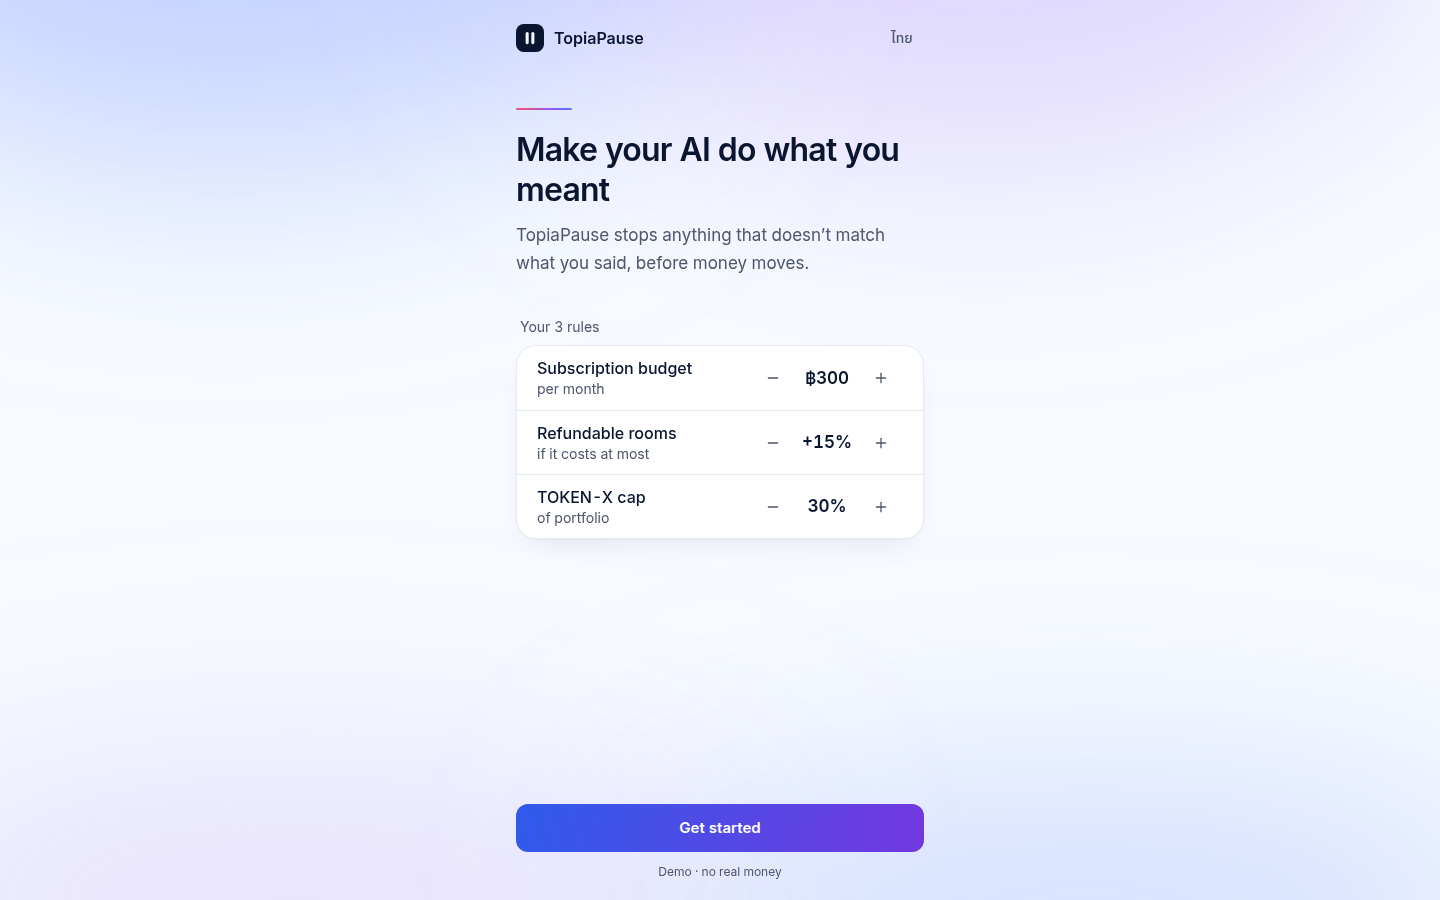
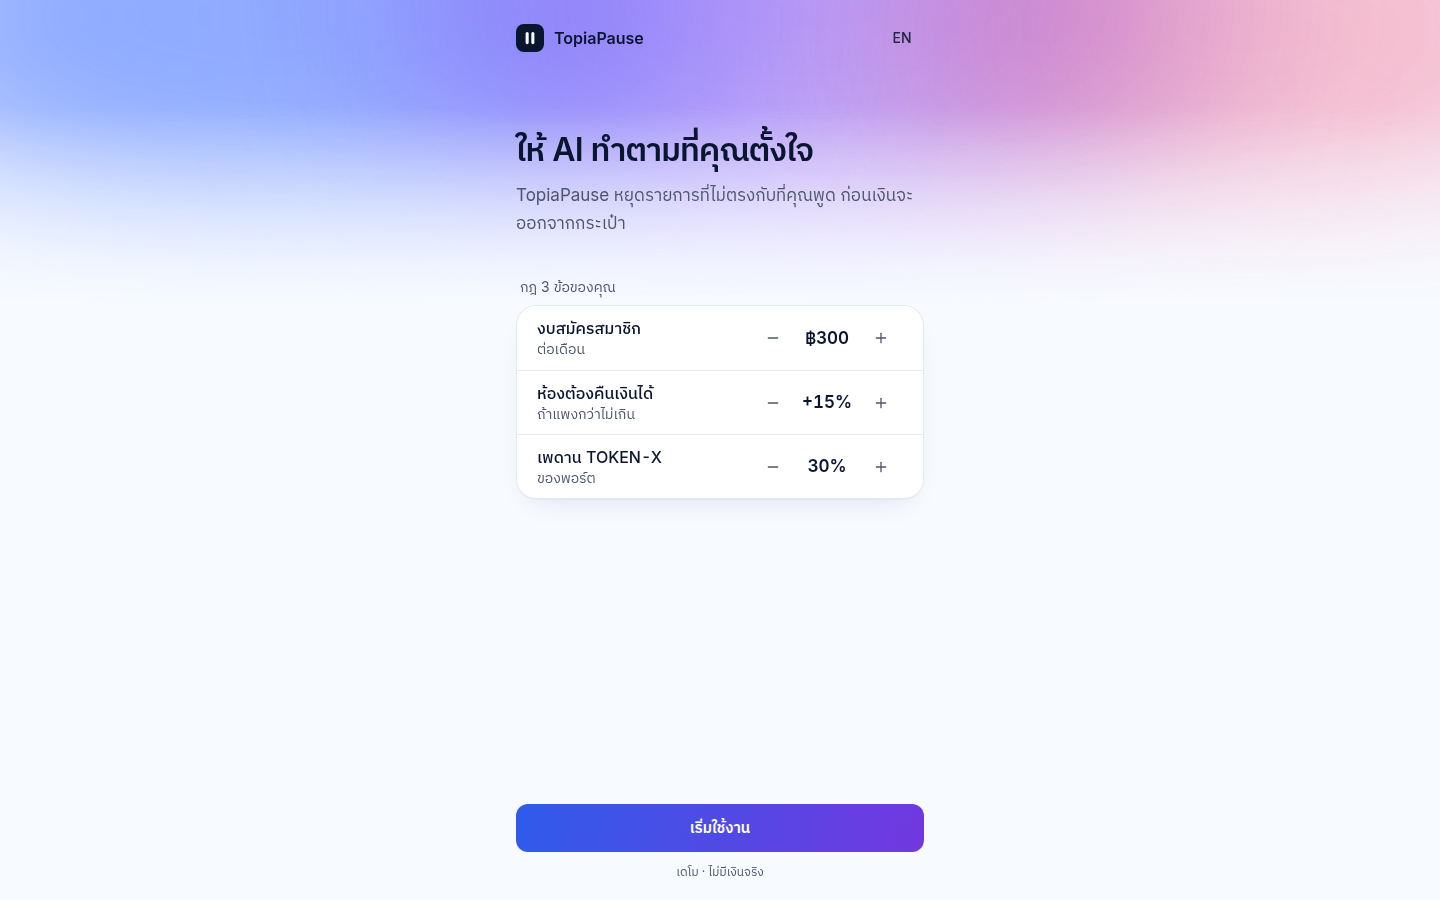
Ambient: top-band glow with visible slow drift (incl. reduced-motion), light theme by default, on-glow header text

diff --git a/apps/web/src/index.css b/apps/web/src/index.css
@@ -40,6 +40,8 @@
   --color-ink: #0a1630;
   --color-muted: #4d566b;
   --color-line: #e4e9f2;
+  /* Secondary text that sits directly on the ambient glow (header). */
+  --color-on-glow: #232a42;
 
   --color-allow: #0f766e;
   --color-pause: #1d4ed8;
@@ -90,6 +92,7 @@
   --color-ink: #eef2fa;
   --color-muted: #a7b2c8;
   --color-line: #22325a;
+  --color-on-glow: #dfe5f2;
   --color-allow: #2dd4bf;
   --color-pause: #8fb4ff;
   --color-block: #fbbf24;
@@ -119,82 +122,70 @@
 }
 
 /*
- * Ambient glow (see Ambient.tsx). Each blob's opacity is
- * --o-<hue> x --k (theme/variant strength) x --boost (voice) x --zone-k,
- * so moods only swap numbers and the opacity transition does the blending.
+ * Ambient glow (see Ambient.tsx): a band across the top ~20% of the screen
+ * that fades out softly; everything below stays clean canvas. Each blob's
+ * opacity is --o-<hue> x --k (theme/variant strength) x --boost (voice), so
+ * moods only swap numbers and the opacity transition does the blending.
  */
 .ambient {
   position: fixed;
-  inset: 0;
+  inset: 0 0 auto;
+  height: 30vh;
   z-index: 0;
   overflow: hidden;
   pointer-events: none;
   contain: strict;
-  --k: 0.75;
+  -webkit-mask-image: linear-gradient(to bottom, #000 35%, transparent 100%);
+  mask-image: linear-gradient(to bottom, #000 35%, transparent 100%);
+  --k: 1;
   --boost: 1;
-  --blur: 100px;
-  --o-blue: 0.3;
-  --o-purple: 0.22;
-  --o-rose: 0;
+  --blur: 72px;
+  --o-blue: 0.55;
+  --o-purple: 0.5;
+  --o-rose: 0.32;
   --o-teal: 0;
 }
+@media (min-width: 640px) {
+  .ambient {
+    --blur: 100px;
+  }
+}
 .dark .ambient {
-  --k: 0.95;
+  --k: 0.8;
 }
 .ambient[data-variant='onboarding'] {
-  --k: 1;
-  --blur: 110px;
+  height: 34vh;
+  --k: 1.15;
 }
 .dark .ambient[data-variant='onboarding'] {
-  --k: 1.25;
+  --k: 0.9;
 }
 
 /* Moods follow the live guard card; the last matching rule wins. */
 :root:has([data-guard='verdict'][data-decision='allow']) .ambient {
-  --o-blue: 0.3;
-  --o-purple: 0.08;
-  --o-teal: 0.28;
+  --o-blue: 0.6;
+  --o-purple: 0.2;
+  --o-rose: 0;
+  --o-teal: 0.5;
 }
 :root:has([data-guard='verdict'][data-decision='pause']) .ambient,
 :root:has([data-guard='verdict'][data-decision='block']) .ambient {
-  --o-blue: 0.22;
-  --o-purple: 0.24;
-  --o-rose: 0.24;
+  --o-blue: 0.42;
+  --o-purple: 0.5;
+  --o-rose: 0.55;
 }
 :root:has([data-guard='checking'], [data-guard='rechecking']) .ambient {
-  --o-blue: 0.34;
-  --o-purple: 0.3;
-  --o-rose: 0.06;
+  --o-blue: 0.62;
+  --o-purple: 0.58;
+  --o-rose: 0.36;
   --o-teal: 0;
 }
 :root:has([data-voice='speaking']) .ambient {
-  --boost: 1.1;
-}
-
-.ambient-zone {
-  position: absolute;
-  inset-inline: 0;
-}
-.ambient-top {
-  top: 0;
-  height: 48vh;
-  --zone-k: 1;
-}
-.ambient-bottom {
-  bottom: 0;
-  height: 30vh;
-  --zone-k: 0.5;
-}
-.ambient[data-variant='onboarding'] .ambient-top {
-  height: 62vh;
-}
-.ambient[data-variant='onboarding'] .ambient-bottom {
-  --zone-k: 0.8;
+  --boost: 1.12;
 }
 
 .ambient-blob {
   position: absolute;
-  max-width: 880px;
   border-radius: 50%;
   filter: blur(var(--blur));
   will-change: transform, opacity;
@@ -203,38 +194,33 @@
 }
 .ambient-blob[data-hue='blue'] {
   background: var(--color-glow-blue);
-  opacity: calc(var(--o-blue) * var(--k) * var(--boost) * var(--zone-k));
+  opacity: calc(var(--o-blue) * var(--k) * var(--boost));
   --drift: ambient-drift-a;
-  --dur: 19s;
+  --dur: 22s;
+  left: -12%; top: -70%; width: 62%; height: 150%;
 }
 .ambient-blob[data-hue='purple'] {
   background: var(--color-glow-purple);
-  opacity: calc(var(--o-purple) * var(--k) * var(--boost) * var(--zone-k));
+  opacity: calc(var(--o-purple) * var(--k) * var(--boost));
   --drift: ambient-drift-b;
-  --dur: 23s;
+  --dur: 27s;
+  left: 28%; top: -80%; width: 56%; height: 160%;
 }
 .ambient-blob[data-hue='rose'] {
   background: var(--color-glow-rose);
-  opacity: calc(var(--o-rose) * var(--k) * var(--boost) * var(--zone-k));
+  opacity: calc(var(--o-rose) * var(--k) * var(--boost));
   --drift: ambient-drift-c;
-  --dur: 17s;
+  --dur: 24s;
+  left: 62%; top: -60%; width: 50%; height: 140%;
 }
 .ambient-blob[data-hue='teal'] {
   background: var(--color-glow-teal);
-  opacity: calc(var(--o-teal) * var(--k) * var(--boost) * var(--zone-k));
+  opacity: calc(var(--o-teal) * var(--k) * var(--boost));
   --drift: ambient-drift-c;
-  --dur: 25s;
+  --dur: 29s;
   animation-direction: alternate-reverse;
+  left: 8%; top: -60%; width: 46%; height: 130%;
 }
-
-.ambient-top [data-hue='blue'] { left: -15%; top: -60%; width: 70%; height: 90%; }
-.ambient-top [data-hue='purple'] { left: 38%; top: -68%; width: 72%; height: 95%; }
-.ambient-top [data-hue='rose'] { left: 58%; top: -48%; width: 50%; height: 70%; }
-.ambient-top [data-hue='teal'] { left: 5%; top: -48%; width: 50%; height: 70%; }
-.ambient-bottom [data-hue='purple'] { left: -10%; top: 55%; width: 65%; height: 90%; }
-.ambient-bottom [data-hue='blue'] { left: 45%; top: 60%; width: 65%; height: 90%; }
-.ambient-bottom [data-hue='rose'] { left: 30%; top: 70%; width: 45%; height: 70%; }
-.ambient-bottom [data-hue='teal'] { left: 20%; top: 65%; width: 55%; height: 80%; }
 
 .ambient[data-paused] .ambient-blob {
   animation-play-state: paused;
@@ -242,31 +228,24 @@
 
 @keyframes ambient-drift-a {
   0% { transform: translate3d(0, 0, 0) scale(1, 1) rotate(0deg); }
-  50% { transform: translate3d(9%, 7%, 0) scale(1.14, 0.9) rotate(9deg); }
-  100% { transform: translate3d(-7%, 4%, 0) scale(0.92, 1.1) rotate(-6deg); }
+  50% { transform: translate3d(22%, 14%, 0) scale(1.25, 0.85) rotate(14deg); }
+  100% { transform: translate3d(-14%, 6%, 0) scale(0.85, 1.18) rotate(-10deg); }
 }
 @keyframes ambient-drift-b {
   0% { transform: translate3d(0, 0, 0) scale(1, 1) rotate(0deg); }
-  50% { transform: translate3d(-11%, 9%, 0) scale(0.9, 1.12) rotate(-10deg); }
-  100% { transform: translate3d(6%, -3%, 0) scale(1.1, 0.94) rotate(7deg); }
+  50% { transform: translate3d(-24%, 12%, 0) scale(0.82, 1.2) rotate(-16deg); }
+  100% { transform: translate3d(16%, -6%, 0) scale(1.22, 0.9) rotate(10deg); }
 }
 @keyframes ambient-drift-c {
   0% { transform: translate3d(0, 0, 0) scale(1, 1); }
-  50% { transform: translate3d(-8%, -10%, 0) scale(1.16, 0.95); }
-  100% { transform: translate3d(10%, 6%, 0) scale(0.94, 1.08); }
+  50% { transform: translate3d(-20%, -10%, 0) scale(1.24, 0.9); }
+  100% { transform: translate3d(18%, 10%, 0) scale(0.86, 1.14); }
 }
-
-/* The blue wave is reserved for moments when TopiaPause is thinking or speaking. */
-@utility bg-wave {
-  background-image: linear-gradient(
-    90deg,
-    var(--color-wave-1),
-    var(--color-wave-2),
-    var(--color-wave-3),
-    var(--color-wave-4),
-    var(--color-wave-1)
-  );
-  background-size: 200% 100%;
+/* Reduced motion: no stillness, just a much slower, smaller sway. */
+@keyframes ambient-drift-soft {
+  0% { transform: translate3d(0, 0, 0) scale(1, 1); }
+  50% { transform: translate3d(7%, 4%, 0) scale(1.06, 0.96); }
+  100% { transform: translate3d(-6%, 2%, 0) scale(0.96, 1.05); }
 }
 
 @layer base {
@@ -293,7 +272,11 @@
     animation-iteration-count: 1 !important;
     transition-duration: 0ms !important;
   }
+  /* Beats the blanket rule above (higher specificity, both !important). */
   .ambient-blob {
-    animation: none;
+    animation-name: ambient-drift-soft !important;
+    animation-duration: calc(var(--dur) * 2) !important;
+    animation-iteration-count: infinite !important;
+    transition-duration: 800ms !important;
   }
 }

diff --git a/apps/web/src/components/Ambient.tsx b/apps/web/src/components/Ambient.tsx
@@ -2,10 +2,10 @@ import { useEffect, useRef } from 'react';
 import { useApp } from '../state';
 
 /**
- * Living gradient behind the app: soft blurred blobs anchored at the top and
- * near the composer. Colour mood comes from CSS (`:has()` on the guard card's
- * data attributes); this component only adjusts speed and pauses when hidden.
- * Only transform/opacity animate, so it stays on the compositor.
+ * Living gradient across the top of the screen: soft blurred blobs that drift
+ * and morph, fading out by ~20% of the viewport. Colour mood comes from CSS
+ * (`:has()` on the guard card's data attributes); this component only adjusts
+ * speed and pauses while the tab is hidden. Only transform/opacity animate.
  */
 export function Ambient({ variant = 'app' }: { variant?: 'app' | 'onboarding' }) {
   const { state } = useApp();
@@ -16,32 +16,28 @@ export function Ambient({ variant = 'app' }: { variant?: 'app' | 'onboarding' })
     const el = ref.current;
     if (!el) return;
     // updatePlaybackRate keeps the current position, so speeding up never jumps.
-    for (const a of el.getAnimations({ subtree: true })) a.updatePlaybackRate(active ? 1.7 : 1);
+    for (const a of el.getAnimations({ subtree: true })) a.updatePlaybackRate(active ? 1.6 : 1);
   }, [active]);
 
   useEffect(() => {
     const el = ref.current;
     if (!el) return;
-    const sync = () => el.toggleAttribute('data-paused', document.hidden);
+    const sync = () => el.toggleAttribute('data-paused', document.visibilityState === 'hidden');
     sync();
     document.addEventListener('visibilitychange', sync);
-    return () => document.removeEventListener('visibilitychange', sync);
+    window.addEventListener('pageshow', sync);
+    return () => {
+      document.removeEventListener('visibilitychange', sync);
+      window.removeEventListener('pageshow', sync);
+    };
   }, []);
 
   return (
     <div ref={ref} className="ambient" data-variant={variant} aria-hidden="true">
-      <div className="ambient-zone ambient-top">
-        <span className="ambient-blob" data-hue="blue" />
-        <span className="ambient-blob" data-hue="purple" />
-        <span className="ambient-blob" data-hue="rose" />
-        <span className="ambient-blob" data-hue="teal" />
-      </div>
-      <div className="ambient-zone ambient-bottom">
-        <span className="ambient-blob" data-hue="purple" />
-        <span className="ambient-blob" data-hue="blue" />
-        <span className="ambient-blob" data-hue="rose" />
-        <span className="ambient-blob" data-hue="teal" />
-      </div>
+      <span className="ambient-blob" data-hue="blue" />
+      <span className="ambient-blob" data-hue="purple" />
+      <span className="ambient-blob" data-hue="rose" />
+      <span className="ambient-blob" data-hue="teal" />
     </div>
   );
 }

diff --git a/apps/web/src/state.tsx b/apps/web/src/state.tsx
@@ -74,21 +74,30 @@ type Action =
   | { type: 'reset' };
 
 const STORAGE_KEY = 'topiapause:v2';
+/** Light by default; dark only once the user flips the toggle (system preference is ignored). */
+const THEME_KEY = 'topiapause:theme';
+
+function savedTheme(): Theme {
+  try {
+    return localStorage.getItem(THEME_KEY) === 'dark' ? 'dark' : 'light';
+  } catch {
+    return 'light';
+  }
+}
 
 function initial(): AppState {
-  const prefersDark = typeof window !== 'undefined' && window.matchMedia?.('(prefers-color-scheme: dark)').matches;
   const base: AppState = {
     onboarded: false,
     screen: 'chat',
     lang: 'th',
-    theme: prefersDark ? 'dark' : 'light',
+    theme: savedTheme(),
     policy: DEFAULT_POLICY,
     chat: [],
     activity: [],
   };
   try {
     const saved = JSON.parse(localStorage.getItem(STORAGE_KEY) ?? 'null') as Partial<AppState> | null;
-    if (saved) return { ...base, ...saved, chat: [], screen: 'chat' };
+    if (saved) return { ...base, ...saved, theme: base.theme, chat: [], screen: 'chat' };
   } catch {
     // ignore corrupt storage
   }
@@ -141,6 +150,7 @@ export function AppProvider({ children }: { children: ReactNode }) {
 
   useEffect(() => {
     document.documentElement.classList.toggle('dark', state.theme === 'dark');
+    localStorage.setItem(THEME_KEY, state.theme);
     document.documentElement.lang = state.lang;
   }, [state.theme, state.lang]);
 

diff --git a/apps/web/src/components/Header.tsx b/apps/web/src/components/Header.tsx
@@ -11,7 +11,7 @@ export function LangButton({ className }: { className?: string }) {
       type="button"
       aria-label={t(lang, 'switchLangLabel')}
       onClick={() => dispatch({ type: 'lang', lang: lang === 'th' ? 'en' : 'th' })}
-      className={`inline-flex h-11 min-w-11 items-center justify-center rounded-control px-2 text-sm font-medium text-muted hover:text-ink ${className ?? ''}`}
+      className={`inline-flex h-11 min-w-11 items-center justify-center rounded-control px-2 text-sm font-medium text-on-glow hover:text-ink ${className ?? ''}`}
     >
       {t(lang, 'switchLang')}
     </button>
@@ -32,11 +32,11 @@ export function Header() {
           <h1 className="flex-1 font-semibold">{title}</h1>
         ) : (
           <p className="flex-1 font-semibold">
-            U-Bot <span className="font-normal text-muted">· {t(lang, 'mock')}</span>
+            U-Bot <span className="font-normal text-on-glow">· {t(lang, 'mock')}</span>
           </p>
         )}
         {screen === 'chat' && state.chat.length > 0 && (
-          <IconButton label={t(lang, 'newChat')} onClick={() => dispatch({ type: 'clearChat' })}>
+          <IconButton className="text-on-glow!" label={t(lang, 'newChat')} onClick={() => dispatch({ type: 'clearChat' })}>
             <RotateCcw size={18} />
           </IconButton>
         )}

diff --git a/apps/web/index.html b/apps/web/index.html
@@ -3,8 +3,7 @@
   <head>
     <meta charset="UTF-8" />
     <meta name="viewport" content="width=device-width, initial-scale=1, viewport-fit=cover" />
-    <meta name="theme-color" content="#F7FAFF" media="(prefers-color-scheme: light)" />
-    <meta name="theme-color" content="#0A1630" media="(prefers-color-scheme: dark)" />
+    <meta name="theme-color" content="#F7FAFF" />
     <meta name="description" content="TopiaPause — Think before your AI spends. AI proposes, rules decide, you sign." />
     <link rel="icon" type="image/svg+xml" href="/icon.svg" />
     <title>TopiaPause · Think before your AI spends</title>
